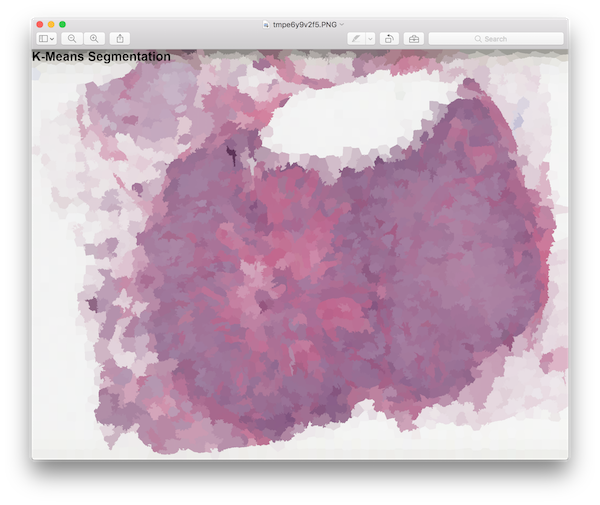
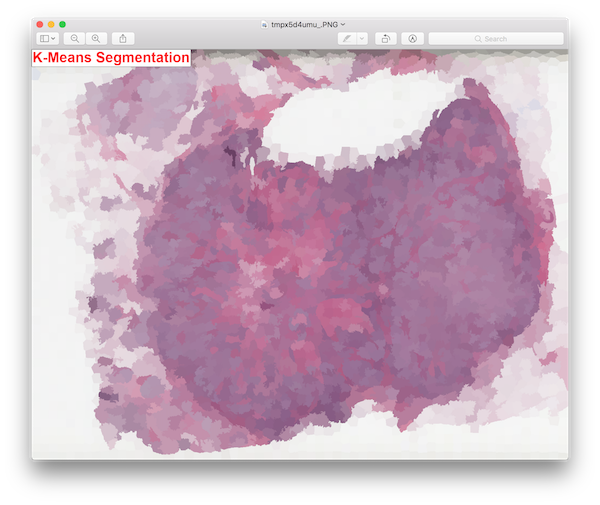
Kmeans segmentation doc updates

diff --git a/docs/index.md b/docs/index.md
@@ -1248,14 +1248,14 @@ perform k-means segmentation on that image.
 ```
 img_path = slide.get_training_image_path(2)
 img = slide.open_image(img_path)
-rgb = pil_to_np_rgb(img)
-display_img(rgb, "Original")
-kmeans_seg = filter_kmeans_segmentation(rgb, n_segments=3000)
-display_img(kmeans_seg, "K-Means Segmentation", color=(0, 0, 0))
-otsu_mask = mask_rgb(rgb, filter_otsu_threshold(filter_complement(filter_rgb_to_grayscale(rgb)), output_type="bool"))
-display_img(otsu_mask, "Image after Otsu Mask", color=(255, 255, 255))
-kmeans_seg_otsu = filter_kmeans_segmentation(otsu_mask, n_segments=3000)
-display_img(kmeans_seg_otsu, "K-Means Segmentation after Otsu Mask", color=(255, 255, 255))
+rgb = util.pil_to_np_rgb(img)
+util.display_img(rgb, "Original", bg=True)
+kmeans_seg = filter.filter_kmeans_segmentation(rgb, n_segments=3000)
+util.display_img(kmeans_seg, "K-Means Segmentation", bg=True)
+otsu_mask = util.mask_rgb(rgb, filter.filter_otsu_threshold(filter.filter_complement(filter.filter_rgb_to_grayscale(rgb)), output_type="bool"))
+util.display_img(otsu_mask, "Image after Otsu Mask", bg=True)
+kmeans_seg_otsu = filter.filter_kmeans_segmentation(otsu_mask, n_segments=3000)
+util.display_img(kmeans_seg_otsu, "K-Means Segmentation after Otsu Mask", bg=True)
 ```
 
 
@@ -1273,18 +1273,18 @@ Note that there are a couple practical difficulties in terms of implementing aut
 segmentation. To begin with, due to the variation in tissue stain colors across the image dataset, it can be difficult
 to filter on "pinkish" and "purplish" colors across all the slides. In addition, the k-means segmentation technique
 is very computationally expensive, as we can see in the console output. The compute time increases with the number
-of segments. For 3000 segments, we have a filter time of 26 seconds, whereas all operations that we have seen up to
+of segments. For 3000 segments, we have a filter time of ~20 seconds, whereas all operations that we have seen up to
 this point are subsecond. If we use the default value of 800 segments, compute time for the k-means segmentation filter
-is 9 seconds.
+is ~7 seconds.
 
 ```
-RGB                  | Time: 0:00:00.206051  Type: uint8   Shape: (1567, 2048, 3)
-K-Means Segmentation | Time: 0:00:26.106364  Type: uint8   Shape: (1567, 2048, 3)
-Gray                 | Time: 0:00:00.109594  Type: uint8   Shape: (1567, 2048)
-Complement           | Time: 0:00:00.000841  Type: uint8   Shape: (1567, 2048)
-Otsu Threshold       | Time: 0:00:00.016523  Type: bool    Shape: (1567, 2048)
-Mask RGB             | Time: 0:00:00.009480  Type: uint8   Shape: (1567, 2048, 3)
-K-Means Segmentation | Time: 0:00:26.232028  Type: uint8   Shape: (1567, 2048, 3)
+RGB                  | Time: 0:00:00.172848  Type: uint8   Shape: (1385, 1810, 3)
+K-Means Segmentation | Time: 0:00:20.238886  Type: uint8   Shape: (1385, 1810, 3)
+Gray                 | Time: 0:00:00.076287  Type: uint8   Shape: (1385, 1810)
+Complement           | Time: 0:00:00.000374  Type: uint8   Shape: (1385, 1810)
+Otsu Threshold       | Time: 0:00:00.013864  Type: bool    Shape: (1385, 1810)
+Mask RGB             | Time: 0:00:00.008522  Type: uint8   Shape: (1385, 1810, 3)
+K-Means Segmentation | Time: 0:00:20.130044  Type: uint8   Shape: (1385, 1810, 3)
 ```
 
 ---
